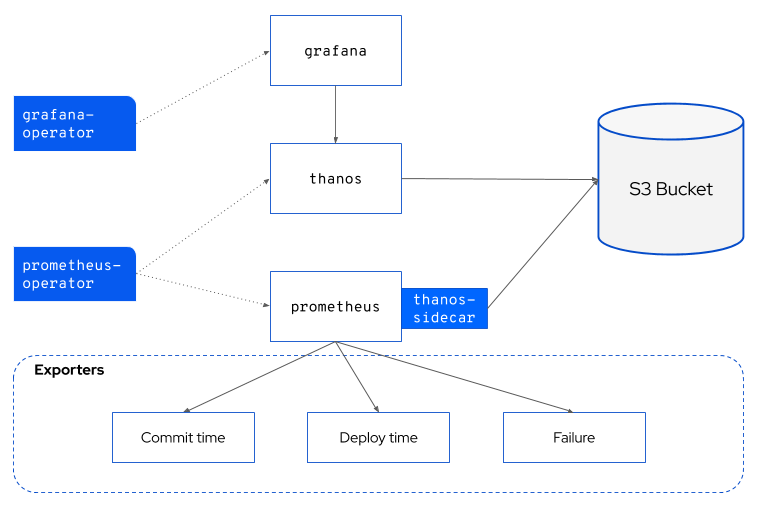
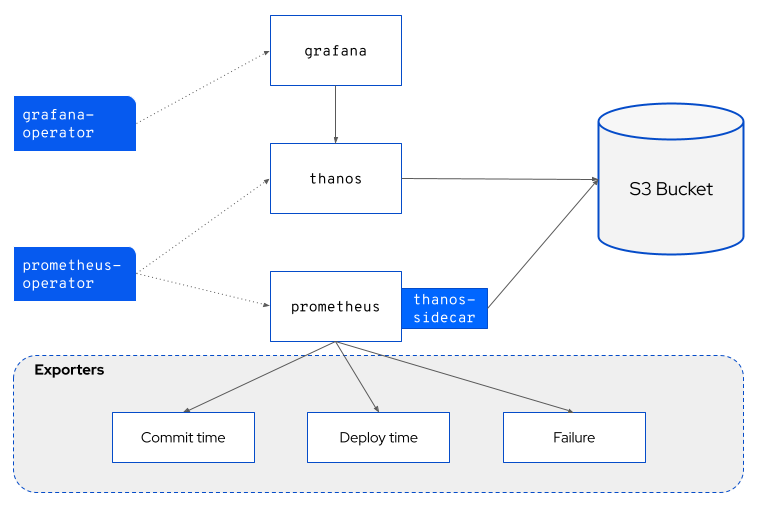
Switch documentation to material theme for mkdocs (#691)
* Switch documentation to material theme for mkdocs

* Downgrade to python 3.8 since thats the latest readthedocs has

* Add dark mode for Kevin and pelorus colors and icons

* Ensure dev env installs material theme

* Add fill color to architecture diagram to support dark mode

* Update diagrams for dark mode

* Add docs requirements.txt to makefile target dependency

Changed region(s): [[0.2099, 0.8372, 0.2699, 0.8682], [0.5098, 0.8372, 0.5398, 0.8682]]

diff --git a/docs/stylesheets/extra.css b/docs/stylesheets/extra.css
@@ -1,0 +1,19 @@
+:root > * {
+    --md-primary-fg-color:        #0066ff;
+    --md-primary-fg-color--light: #c7c8ca;
+    --md-primary-fg-color--dark:  #054cc9;
+
+    --md-accent-fg-color: #f6624e;
+}
+
+[data-md-color-scheme="pelorus"] {
+    --md-primary-fg-color:        #0066ff;
+    --md-primary-fg-color--light: #c7c8ca;
+    --md-primary-fg-color--dark:  #054cc9;
+
+    --md-accent-fg-color: #f6624e;
+}
+
+[data-md-color-scheme="slate"] {
+    --md-hue: 215;
+}
